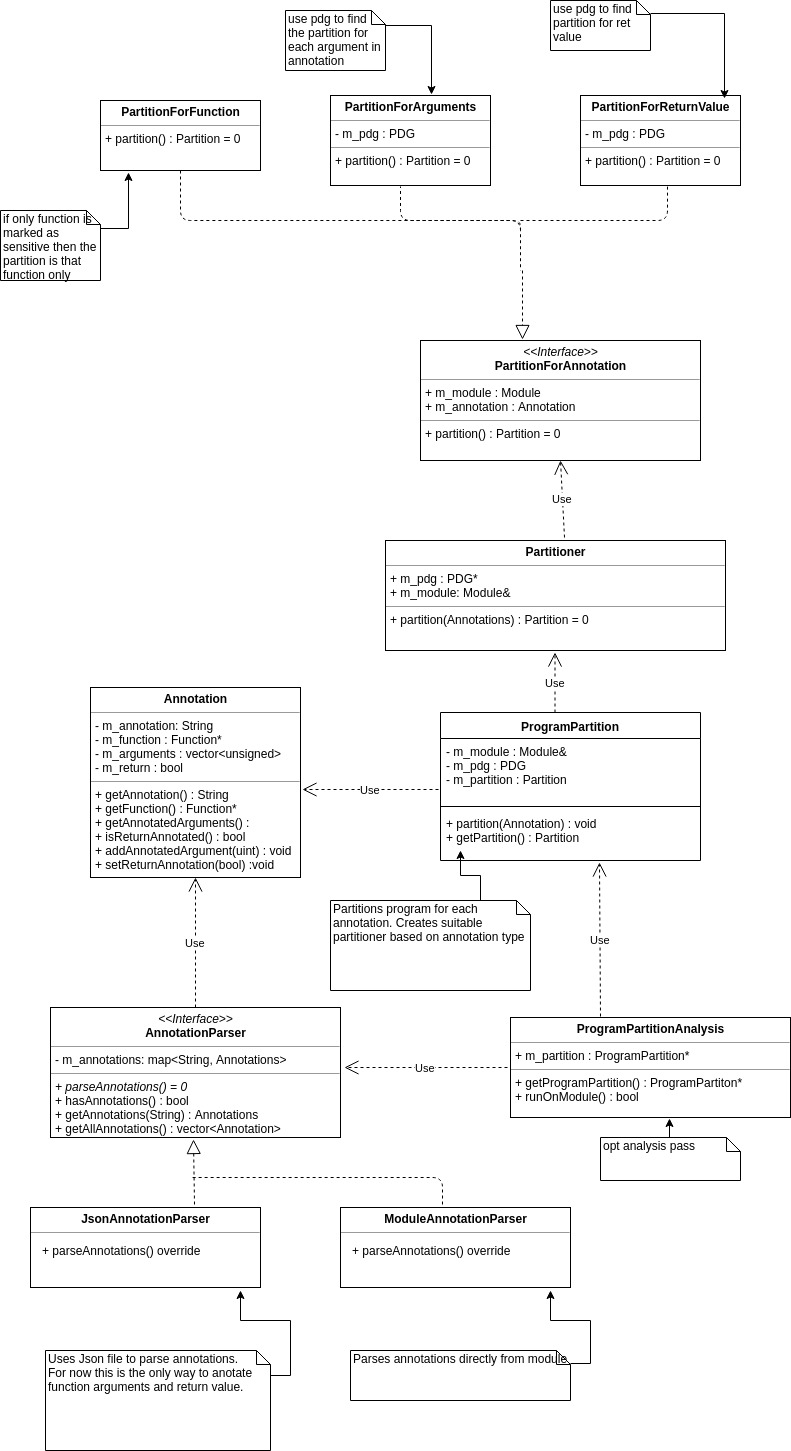
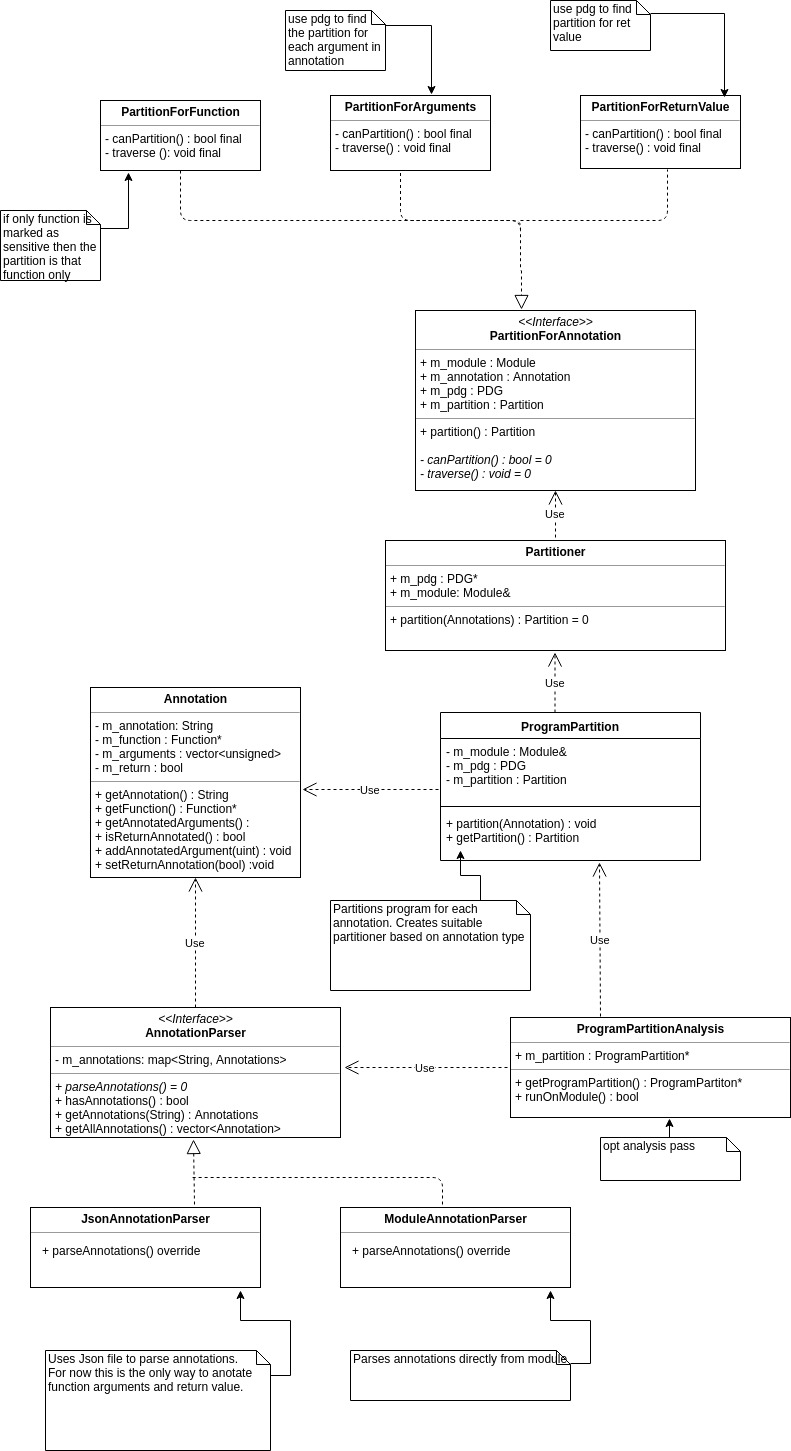
Implemented partition detection for annotated return values
Updated Program Partitioning Analysis UML image

diff --git a/lib/Analysis/Partitioner.cpp b/lib/Analysis/Partitioner.cpp
@@ -4,6 +4,9 @@
 #include "Annotation.h"
 
 #include "PDG/PDG/PDG.h"
+#include "PDG/PDG/PDGNode.h"
+#include "PDG/PDG/PDGEdge.h"
+#include "PDG/PDG/FunctionPDG.h"
 
 #include "llvm/IR/Function.h"
 #include "llvm/IR/Module.h"
@@ -11,27 +14,74 @@
 #include "llvm/Support/Debug.h"
 #include "llvm/Support/raw_ostream.h"
 
+#include <list>
 
 namespace vazgen {
+
+namespace {
+
+template <typename Collection>
+void collectFunctionReturnNodes(llvm::Function* F, const pdg::FunctionPDG& f_pdg, Collection& returns)
+{
+    for (auto& B : *F) {
+        for (auto& I : B) {
+            if (llvm::isa<llvm::ReturnInst>(&I)) {
+                if (!f_pdg.hasNode(&I)) {
+                    continue;
+                }
+                returns.push_back(f_pdg.getNode(&I));
+            }
+        }
+    }
+}
+
+// This is faster then the one above. But is uses information internal to PDG. Or? is it internal?
+template <typename Collection>
+void collectFunctionReturnNodes(const pdg::PDGLLVMFunctionNode& Fnode, Collection returns)
+{
+    for (auto it = Fnode.inEdgesBegin(); it != Fnode.inEdgesEnd(); ++it) {
+        auto source = (*it)->getSource();
+        if (source->getNodeType() != pdg::PDGLLVMNode::InstructionNode) {
+            continue;
+        }
+        auto* llvmSourceNode = llvm::dyn_cast<pdg::PDGLLVMNode>(source.get());
+        assert(llvmSourceNode != nullptr);
+        auto* retInst = llvm::dyn_cast<llvm::ReturnInst>(llvmSourceNode->getNodeValue());
+        if (!retInst) {
+            continue;
+        }
+        returns.push_back(llvmSourceNode);
+    }
+}
+
+}
 
 class PartitionForAnnotation
 {
 public:
     using Partition = Partitioner::Partition;
+    using PDGType = std::shared_ptr<pdg::PDG>;
 
 public:
-    PartitionForAnnotation(llvm::Module& M, const Annotation& annotation)
+    PartitionForAnnotation(llvm::Module& M, PDGType pdg, const Annotation& annotation)
         : m_module(M)
         , m_annotation(annotation)
+        , m_pdg(pdg)
     {
     }
 
 
-    virtual Partition partition() = 0;
+    virtual Partition partition();
+
+protected:
+    virtual bool canPartition() const = 0;
+    virtual void traverse() = 0;
 
 protected:
     llvm::Module& m_module;
     const Annotation& m_annotation;
+    PDGType m_pdg;
+    Partition m_partition;
 }; // PartitionForAnnotation
 
 /// Implementation of ProgramPartition for annotated function
@@ -39,72 +89,126 @@ class PartitionForFunction : public PartitionForAnnotation
 {
 public:
     PartitionForFunction(llvm::Module& M, const Annotation& annotation)
-        : PartitionForAnnotation(M, annotation)
+        : PartitionForAnnotation(M, PDGType(), annotation)
     {
     }
 
-    Partition partition() final
+private:
+    virtual bool canPartition() const final
     {
-        auto* F = m_annotation.getFunction();
-        if (!F) {
-            return Partition();
-        }
-        return {F};
+        return (m_annotation.getFunction() != nullptr);
     }
+
+    virtual void traverse() final
+    {
+        m_partition.insert(m_annotation.getFunction());
+    }
+
 }; // class PartitionForFunction
 
 /// Implementation of ProgramPartition for annotated function and arguments
 class PartitionForArguments : public PartitionForAnnotation
 {
 public:
-    using PDGType = std::shared_ptr<pdg::PDG>;
-
-public:
     PartitionForArguments(llvm::Module& M,
                           const Annotation& annotation,
                           PDGType pdg)
-        : PartitionForAnnotation(M, annotation)
-        , m_pdg(pdg)
+        : PartitionForAnnotation(M, pdg, annotation)
     {
     }
 
-    Partition partition() final;
-
 private:
-    PDGType m_pdg;
+    virtual bool canPartition() const final;
+    virtual void traverse() final;
 }; // class PartitionForArguments
 
 /// Implementation of ProgramPartition for annotated function and arguments
 class PartitionForReturnValue : public PartitionForAnnotation
 {
 public:
-    using PDGType = std::shared_ptr<pdg::PDG>;
-
-public:
     PartitionForReturnValue(llvm::Module& M,
                             const Annotation& annotation,
                             PDGType pdg)
-        : PartitionForAnnotation(M, annotation)
-        , m_pdg(pdg)
+        : PartitionForAnnotation(M, pdg, annotation)
     {
     }
 
-    Partition partition() final;
-
 private:
-    PDGType m_pdg;
+    virtual bool canPartition() const final;
+    virtual void traverse() final;
 }; // class PartitionForArguments
 
-PartitionForAnnotation::Partition PartitionForArguments::partition()
+PartitionForAnnotation::Partition PartitionForAnnotation::partition()
 {
-    // TODO:
-    return Partition();
+    if (!canPartition()) {
+        return m_partition;
+    }
+    traverse();
+    return m_partition;
 }
 
-PartitionForAnnotation::Partition PartitionForReturnValue::partition()
+bool PartitionForArguments::canPartition() const
 {
     // TODO:
-    return Partition();
+    return false;
+}
+
+void PartitionForArguments::traverse()
+{
+    // TODO:
+}
+
+bool PartitionForReturnValue::canPartition() const
+{
+    if (!m_annotation.isReturnAnnotated()) {
+        return false;
+    }
+    llvm::Function* F = m_annotation.getFunction();
+    if (F->getReturnType()->isVoidTy()) {
+        return false;
+    }
+    if (!m_pdg->hasFunctionPDG(F)) {
+        return false;
+    }
+    return true;
+}
+
+void PartitionForReturnValue::traverse()
+{
+    llvm::Function* F = m_annotation.getFunction();
+    auto Fpdg = m_pdg->getFunctionPDG(F);
+    m_partition.insert(F);
+
+    std::list<pdg::FunctionPDG::PDGNodeTy> workingList;
+    collectFunctionReturnNodes(F, *Fpdg, workingList);
+    std::unordered_set<llvm::Value*> processed_values;
+
+    while (!workingList.empty()) {
+        auto* currentNode = workingList.back().get();
+        workingList.pop_back();
+        auto* llvmNode = llvm::dyn_cast<pdg::PDGLLVMNode>(currentNode);
+        if (!llvmNode) {
+            continue;
+        }
+        auto* nodeValue = llvmNode->getNodeValue();
+        // TODO: check this
+        if (llvm::isa<pdg::PDGLLVMInstructionNode>(llvmNode)) {
+            if (!processed_values.insert(nodeValue).second) {
+                continue;
+            }
+        }
+        //llvm::dbgs() << "Node value " << *nodeValue << "\n";
+        if (auto* FNode = llvm::dyn_cast<pdg::PDGLLVMFunctionNode>(llvmNode)) {
+            m_partition.insert(FNode->getFunction());
+            // Stop traversal here
+            continue;
+        }
+        for (auto in_it = currentNode->inEdgesBegin();
+                in_it != currentNode->inEdgesEnd();
+                ++in_it) {
+            workingList.push_front((*in_it)->getSource());
+        }
+    }
 }
 
 Partitioner::Partition Partitioner::partition(const Annotations& annotations)
